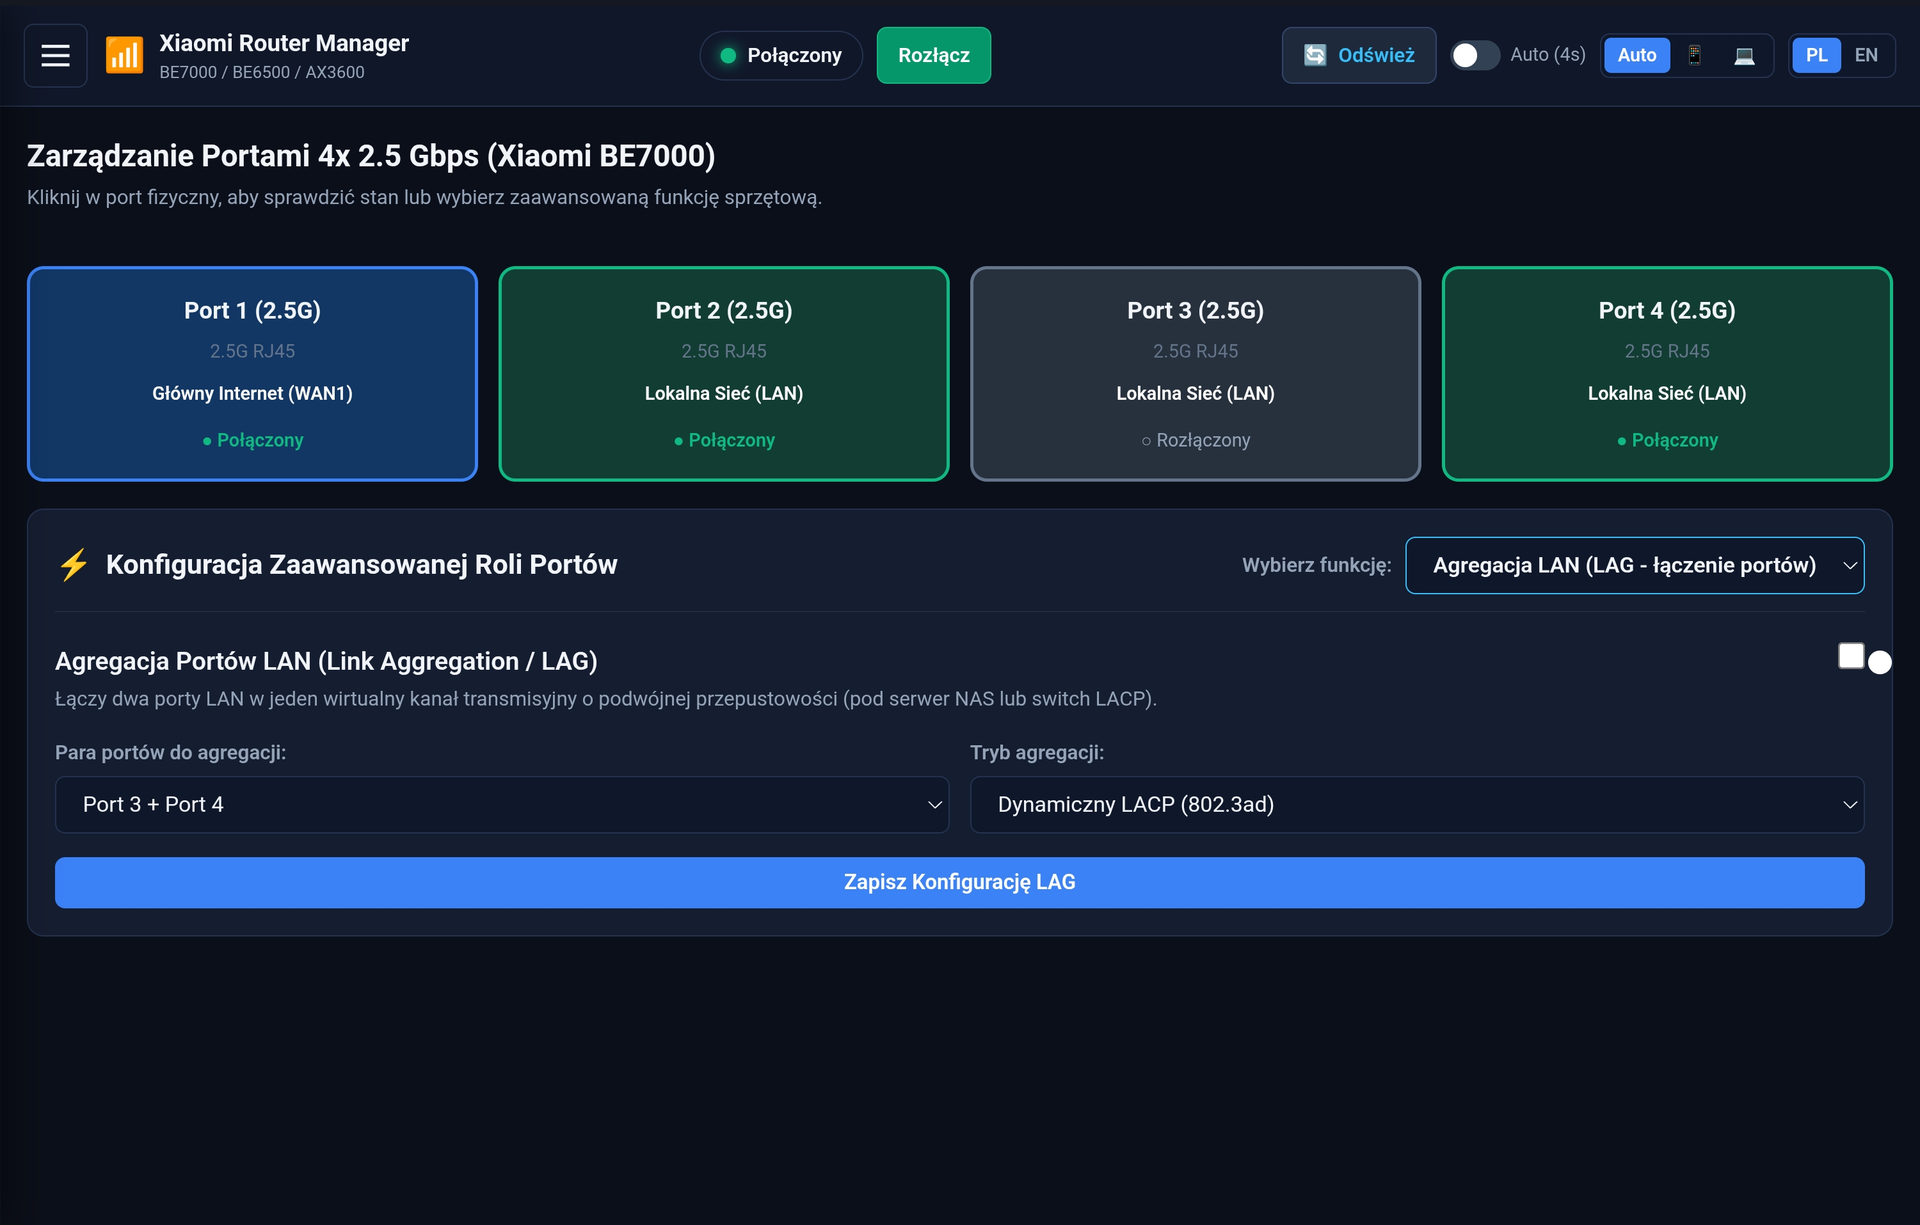
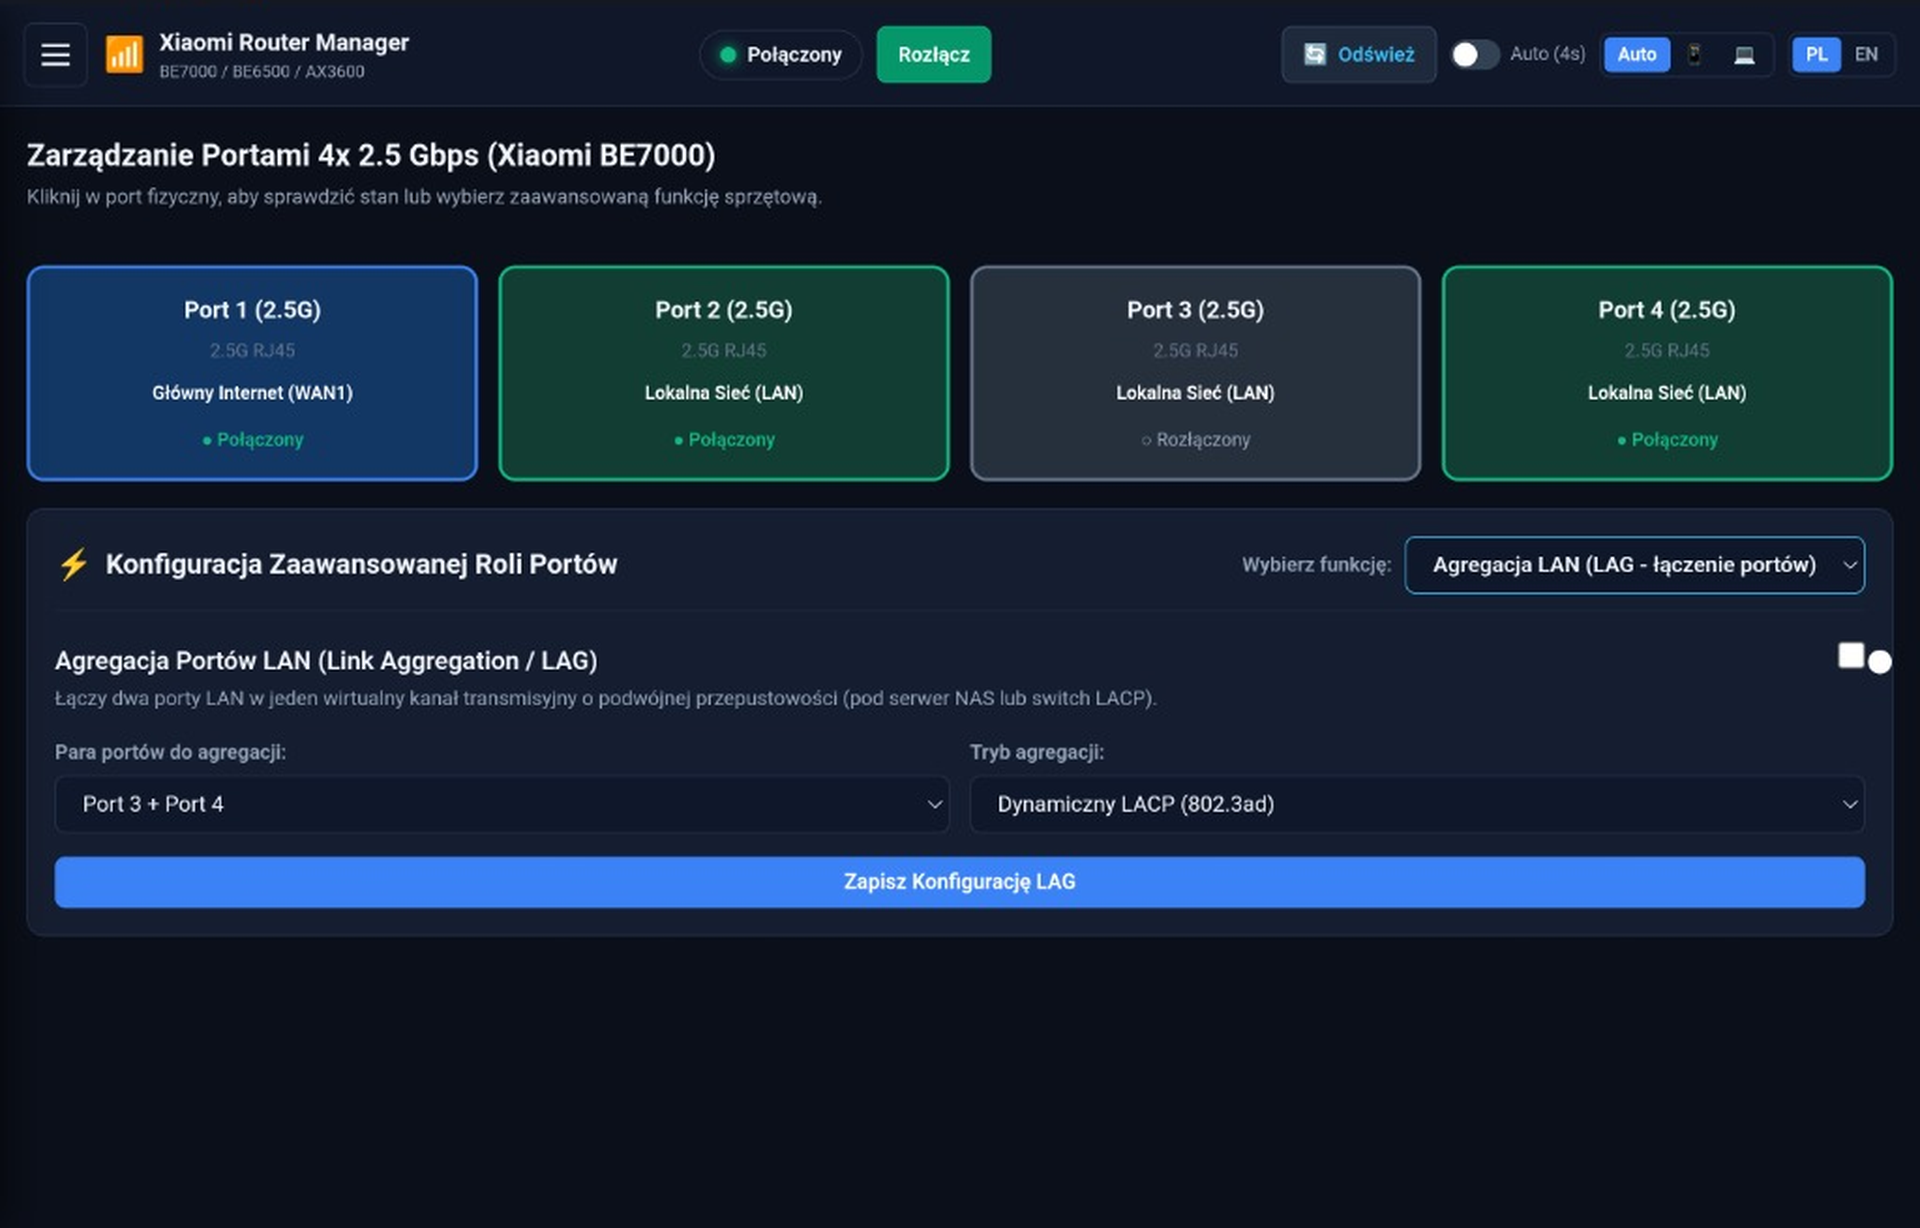
docs: Update Android tablet 2.5G ports screenshot with active LAG and add mobile timezone selection to roadmap

diff --git a/ZBIOROWKA_TODO.md b/ZBIOROWKA_TODO.md
@@ -28,6 +28,13 @@
   - Przełączniki i akcje: sieć dla gości on/off, diody LED nocne on/off, optymalizacja kanałów, restart routera.
   - Korzyść poboczna: darmowy, natywny dostęp z poziomu aplikacji Home Assistant na smartfonach z Androidem i iOS!
 
+### 5. Wybór strefy czasowej i regionu w aplikacji mobilnej (Android / PWA)
+- **Koncepcja i cel:**
+  - Wdrożenie selektora strefy czasowej (Timezone) oraz kodu regionu w ustawieniach systemowych klienta mobilnego (oraz w kreatorze pierwszej konfiguracji).
+  - **Kluczowe znaczenie operacyjne:**
+    1. **Moc nadawania radia Wi-Fi (Tx Power / RegDomain):** prawidłowy region determinuje dozwoloną moc sygnału RF i profile pasm 2.4/5 GHz (np. regulacje CE dla Europy vs FCC dla USA/Chiny).
+    2. **Wpięcie urządzenia do chmury Xiaomi Cloud / Mi Home:** zgodność strefy czasowej i regionu routera z kontem użytkownika Xiaomi jest kluczowa dla bezbłędnego parowania i synchronizacji harmonogramów.
+
 ---
 
 ## Archiwum wdrożeń
